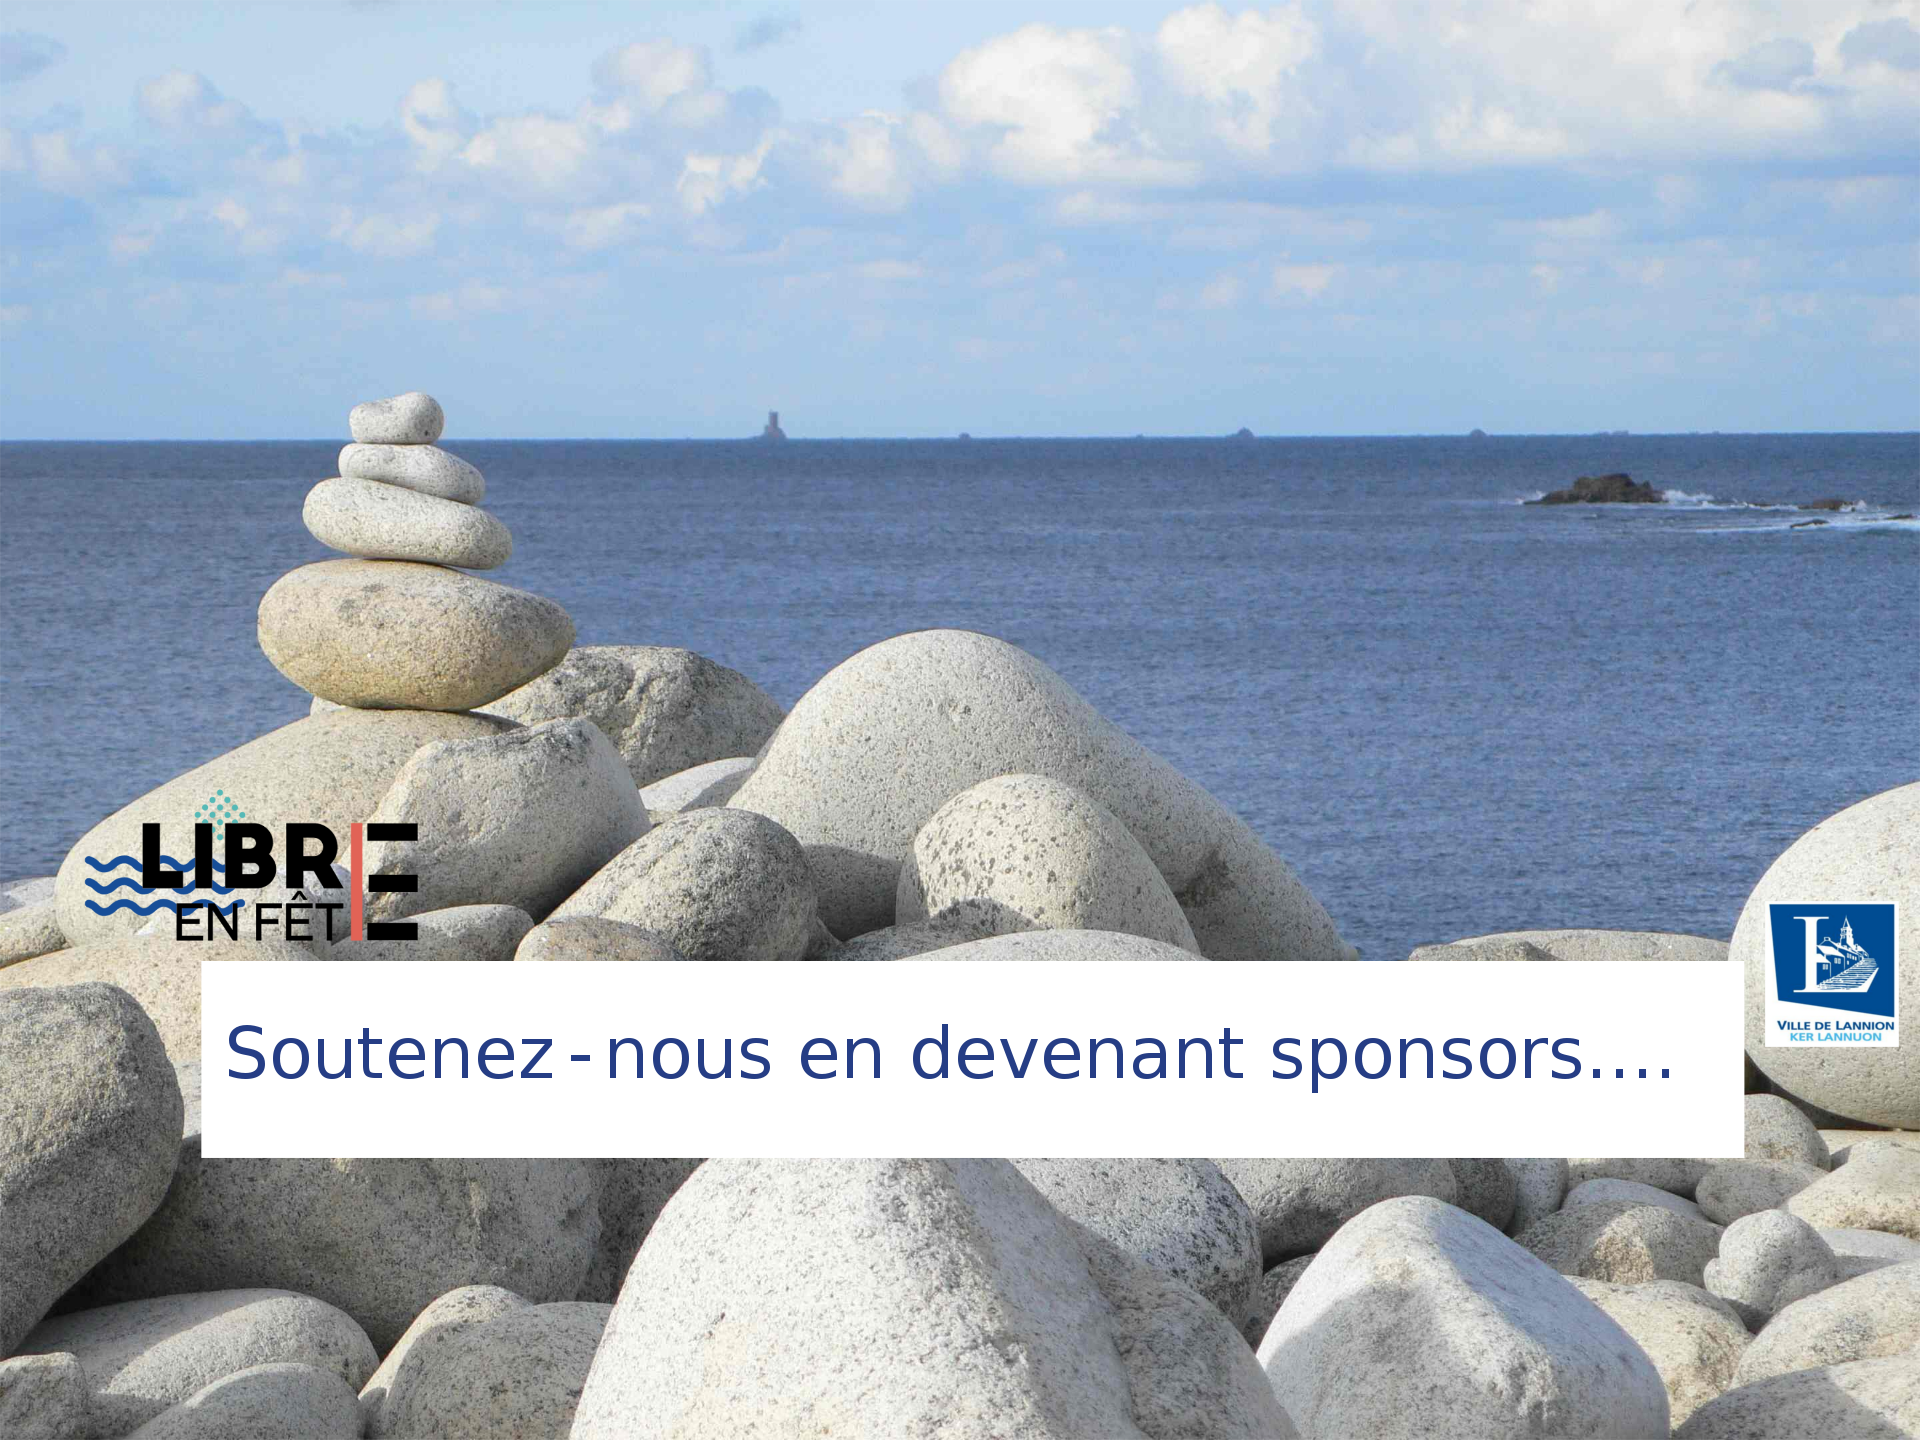
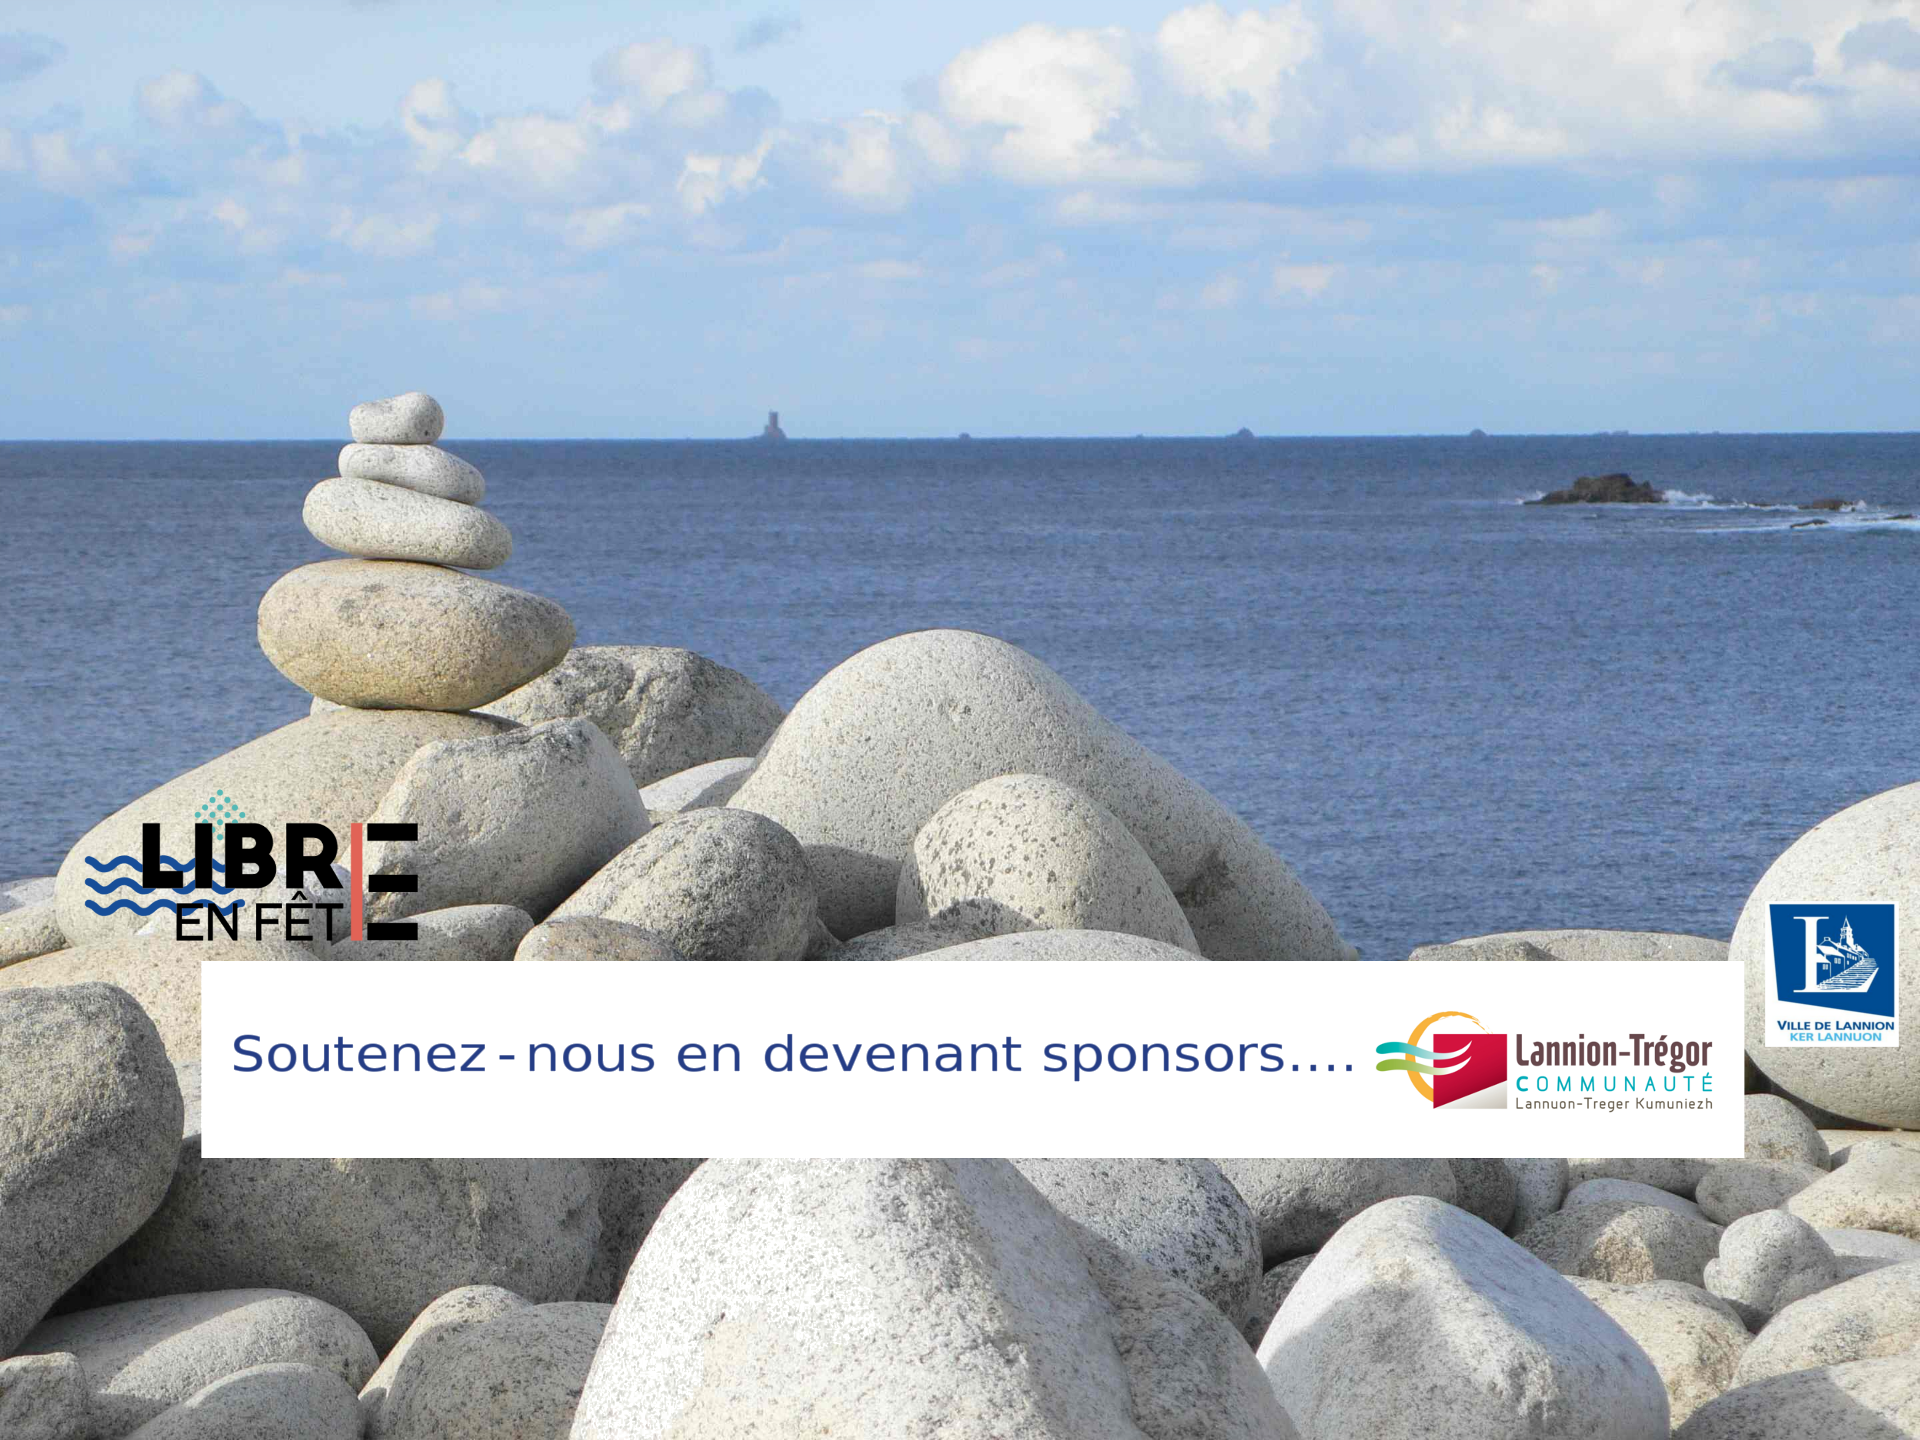
Ajout LTC

Changed region(s): [[0.125, 0.6875, 0.9062, 0.7812]]

diff --git a/www/data.php b/www/data.php
@@ -33,6 +33,12 @@ $data_partenaires = array (
         "http://asso.lanpower.free.fr/",
         "L'association LanPower de Rennes spécialisée sur les jeux video sous licences libres depuis 10 ans, participera au stand jeux libres tous publics et représentera le site <a href='http://jeuxlibres.net'>jeuxlibres.net</a>. Des jeux pour petits et grands ainsi que des jeux en réseau seront présentés."
    ),
+   array(
+        "Lannion Trégor Communauté",
+        "img/LOGO_LTC_GeneriqueFR.jpg",
+        "http://www.lannion-tregor.com/",
+        "La communauté d'agglomération est un établissement public de coopération intercommunale (EPCI).<br>Elle rassemble depuis le 1er janvier 2017, 60 communes pour 118 000 habitants. Ces communes se sont unies sur le principe de solidarité, l'objectif étant de faire ensemble ce qu'une commune seule ne pourrait faire."
+   ),
     array(
       "Lycée le Dantec",
       "img/LeDANTEC.png",
